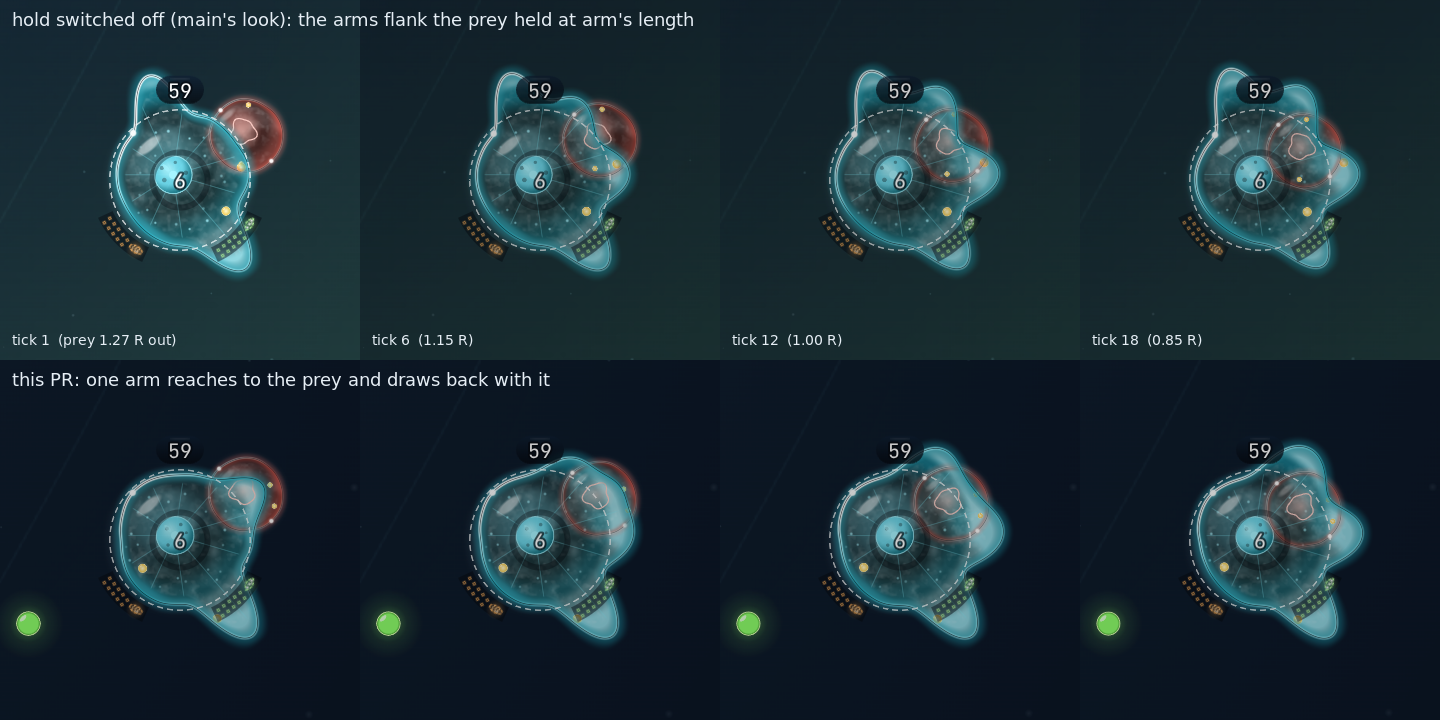
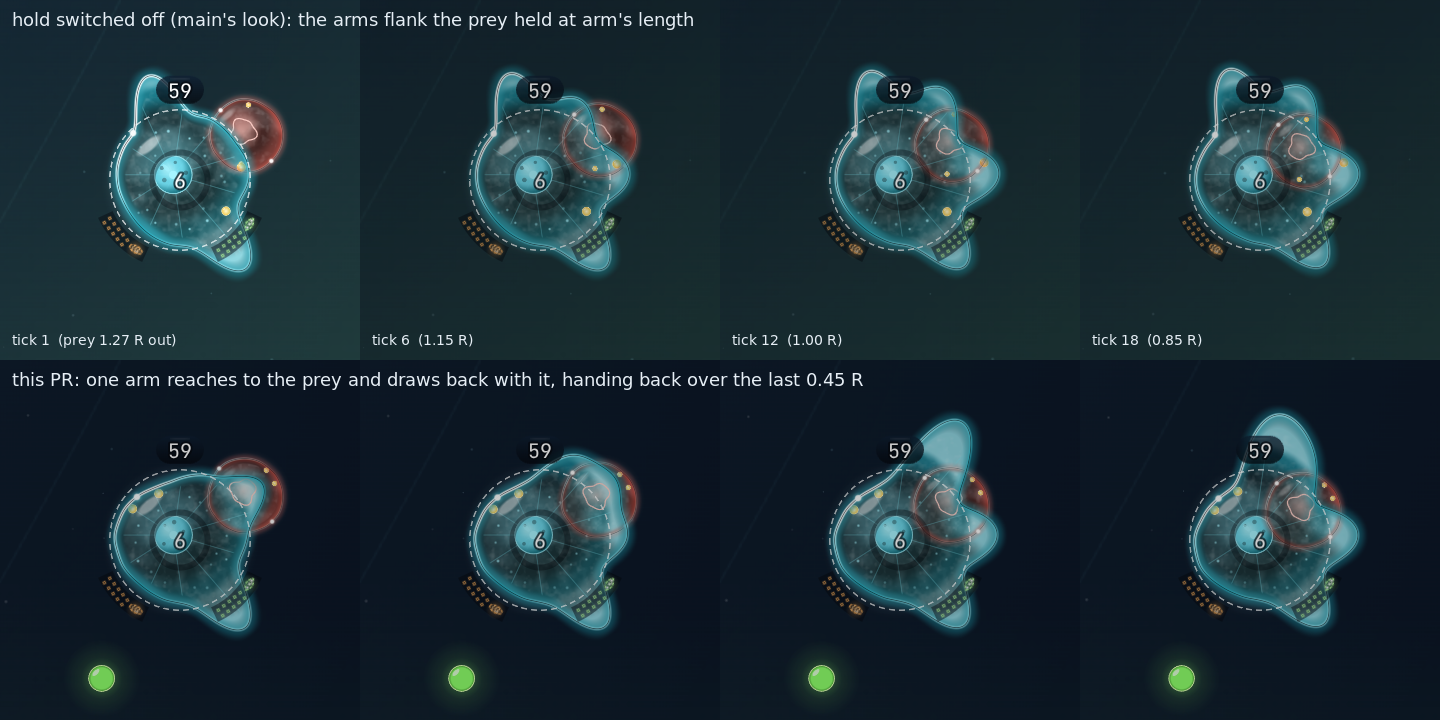
chore(qa): the hand-back stills at the 0.45 r blend; trim the constant's comment under the size cap (#753)

diff --git a/packages/client/src/app/game/render/constants/cell-shape.ts b/packages/client/src/app/game/render/constants/cell-shape.ts
@@ -114,13 +114,9 @@ export const PSEUDOPOD_FLANK_SPREAD = 0.3;
 export const PSEUDOPOD_LEAN_GAIN = 3;
 export const PSEUDOPOD_ENGULF_LEAN = 1;
 /**
- * The arm hold (#753, ecology/absorption.md §6.1 "the arm grab"): while the prey is held outside the body, the lobe
- * nearest it leaves its flank and reaches to the prey instead of cycling, its tip as far past the prey's centre as the
- * body's coverage would be, so it draws back with the prey as the pull brings it in. It hands back to its flank and its
- * cycle over the last `PSEUDOPOD_HOLD_BLEND_RADII` of that reach before the body takes the prey. The blend is a distance,
- * so the pull sets its duration: at the fastest pull, `ENGULF_ARM_PULL_RADII_PER_SECOND` 1.5 r/s at every tier (a pull
- * capped by the prey's speed is slower), 0.45 r lasts 300 ms (18 ticks), twice the 150 ms §5 calls a snap; a predator
- * swimming onto its prey shortens it. The arm swings ~72 ° back to its flank at about 4 ° a tick.
+ * The arm hold (#753, ecology/absorption.md §6.1): the lobe nearest a prey held outside the body lies across it and draws
+ * back with it, handing back to its flank over the last this-many radii of the hold. A distance, so the pull sets the
+ * time: 300 ms (18 ticks) at the fastest, 1.5 r/s at every tier, twice §5's 150 ms snap; the arm swings ~4 ° a tick.
  */
 export const PSEUDOPOD_HOLD_BLEND_RADII = 0.45;
 /** The extension cycle's rate. */
